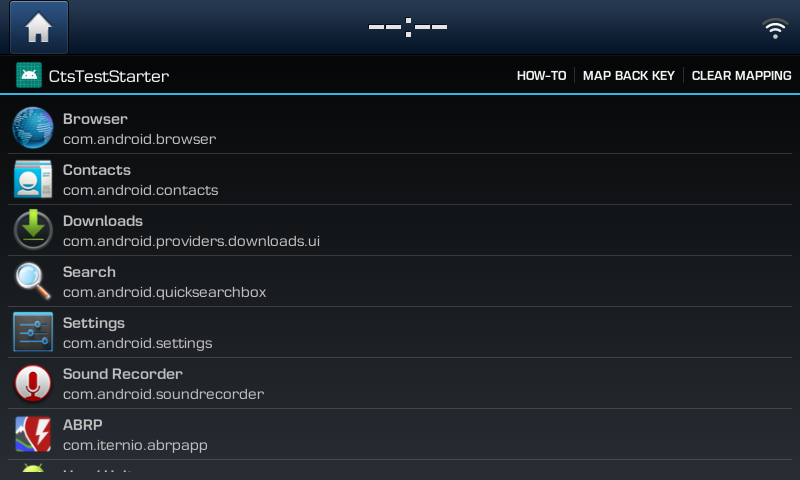
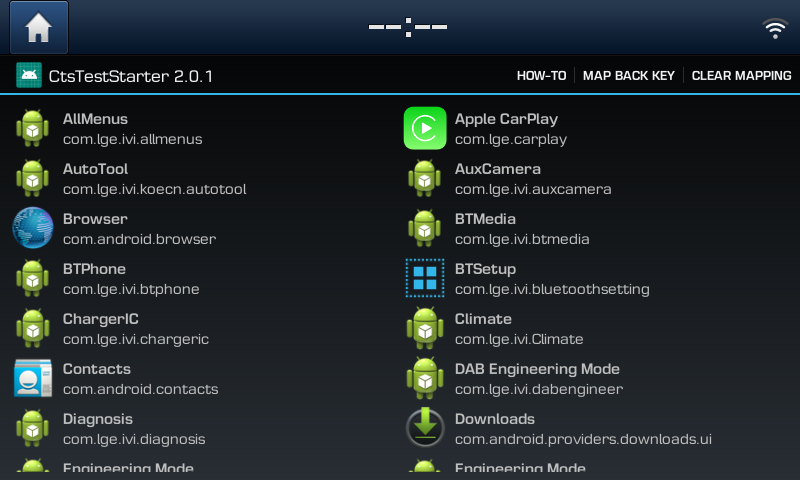
gui optimization

Changed region(s): [[0.0, 0.2188, 0.4062, 1.0], [0.5, 0.2188, 0.9062, 1.0], [0.2188, 0.125, 0.25, 0.1875]]

diff --git a/app/src/main/java/g4rb4g3/at/ctsteststarter/MainActivity.java b/app/src/main/java/g4rb4g3/at/ctsteststarter/MainActivity.java
@@ -17,10 +17,12 @@ import android.os.Looper;
 import android.os.Message;
 import android.view.Menu;
 import android.view.MenuItem;
-import android.widget.ListView;
+import android.widget.GridView;
 import android.widget.Toast;
 
 import java.util.ArrayList;
+import java.util.Collections;
+import java.util.Comparator;
 import java.util.List;
 
 import static g4rb4g3.at.ctsteststarter.KeyInterceptorService.SHOW_MESSAGE;
@@ -31,7 +33,7 @@ public class MainActivity extends Activity {
   private PackageManager mPackageManager = null;
   private List<ApplicationInfo> mApplist = null;
   private ApplicationAdapter mListAdapter = null;
-  private ListView mLvAppList;
+  private GridView mGvAppList;
   private AlertDialog mAlertDialog;
 
   private Handler mHandler = new Handler(Looper.getMainLooper()) {
@@ -69,17 +71,16 @@ public class MainActivity extends Activity {
   protected void onCreate(Bundle savedInstanceState) {
     super.onCreate(savedInstanceState);
     setContentView(R.layout.activity_main);
+    setTitle(getString(R.string.app_name_version, BuildConfig.VERSION_NAME));
 
     mPackageManager = getPackageManager();
 
-    mLvAppList = findViewById(R.id.lv_all_apps);
-    mLvAppList.setOnItemClickListener((parent, view, position, id) -> {
+    mGvAppList = findViewById(R.id.gv_all_apps);
+    mGvAppList.setOnItemClickListener((parent, view, position, id) -> {
       ApplicationInfo applicationInfo = mApplist.get(position);
-      String appLabel = applicationInfo.loadLabel(mPackageManager).toString();
-      applicationInfo.name = appLabel;
       mAlertDialog = new AlertDialog.Builder(this)
           .setTitle(R.string.next_step)
-          .setMessage(getString(R.string.long_press_to_map_app, appLabel))
+          .setMessage(getString(R.string.long_press_to_map_app, applicationInfo.name))
           .setNegativeButton(R.string.cancel, (dialog, which) -> mService.cancel())
           .setCancelable(false)
           .create();
@@ -87,7 +88,7 @@ public class MainActivity extends Activity {
       mService.mapAppToKey(applicationInfo);
     });
 
-    mLvAppList.setOnItemLongClickListener((parent, view, position, id) -> {
+    mGvAppList.setOnItemLongClickListener((parent, view, position, id) -> {
       String packageName = mApplist.get(position).packageName;
       startActivity(mPackageManager.getLaunchIntentForPackage(packageName));
       return true;
@@ -170,7 +171,7 @@ public class MainActivity extends Activity {
 
     @Override
     protected void onPostExecute(Void result) {
-      mLvAppList.setAdapter(mListAdapter);
+      mGvAppList.setAdapter(mListAdapter);
       progress.dismiss();
       super.onPostExecute(result);
     }
@@ -192,6 +193,8 @@ public class MainActivity extends Activity {
       for (ApplicationInfo info : list) {
         try {
           if (!ownPackageName.equals(info.packageName) && mPackageManager.getLaunchIntentForPackage(info.packageName) != null) {
+            String appLabel = info.loadLabel(mPackageManager).toString();
+            info.name = appLabel;
             applist.add(info);
           }
         } catch (Exception e) {
@@ -199,6 +202,7 @@ public class MainActivity extends Activity {
         }
       }
 
+      Collections.sort(applist, (o1, o2) -> o1.name.toLowerCase().compareTo(o2.name.toLowerCase()));
       return applist;
     }
   }

diff --git a/app/src/main/java/g4rb4g3/at/ctsteststarter/KeyInterceptorService.java b/app/src/main/java/g4rb4g3/at/ctsteststarter/KeyInterceptorService.java
@@ -49,7 +49,7 @@ public class KeyInterceptorService extends Service {
       if (keyEvent.getKeyCode() == KeyEvent.KEYCODE_SETTINGS) {
         if (!mActivityVisible) {
           startActivity(new Intent(mContext, MainActivity.class).addFlags(Intent.FLAG_ACTIVITY_NEW_TASK));
-        } else if(mMapBackKey || mClearKeyMapping || mNextAppMappingApplicationInfo != null) {
+        } else if (mMapBackKey || mClearKeyMapping || mNextAppMappingApplicationInfo != null) {
           notifyHandlers(SHOW_MESSAGE, getString(R.string.settings_cannot_be_mapped));
           cancel();
         }

diff --git a/app/src/main/java/g4rb4g3/at/ctsteststarter/ApplicationAdapter.java b/app/src/main/java/g4rb4g3/at/ctsteststarter/ApplicationAdapter.java
@@ -54,7 +54,7 @@ public class ApplicationAdapter extends ArrayAdapter<ApplicationInfo> {
       TextView packageName = view.findViewById(R.id.app_paackage);
       ImageView iconview = view.findViewById(R.id.app_icon);
 
-      appName.setText(applicationInfo.loadLabel(mPackageManager));
+      appName.setText(applicationInfo.name);
       packageName.setText(applicationInfo.packageName);
       iconview.setImageDrawable(applicationInfo.loadIcon(mPackageManager));
     }
